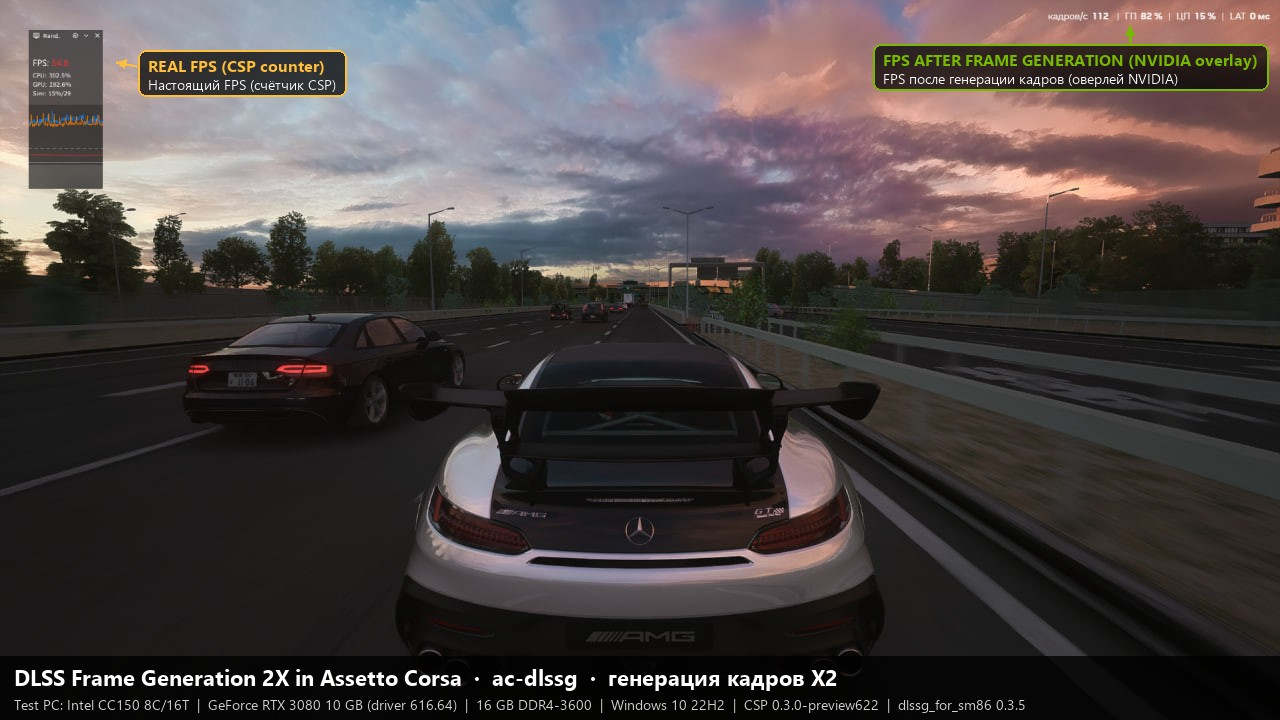
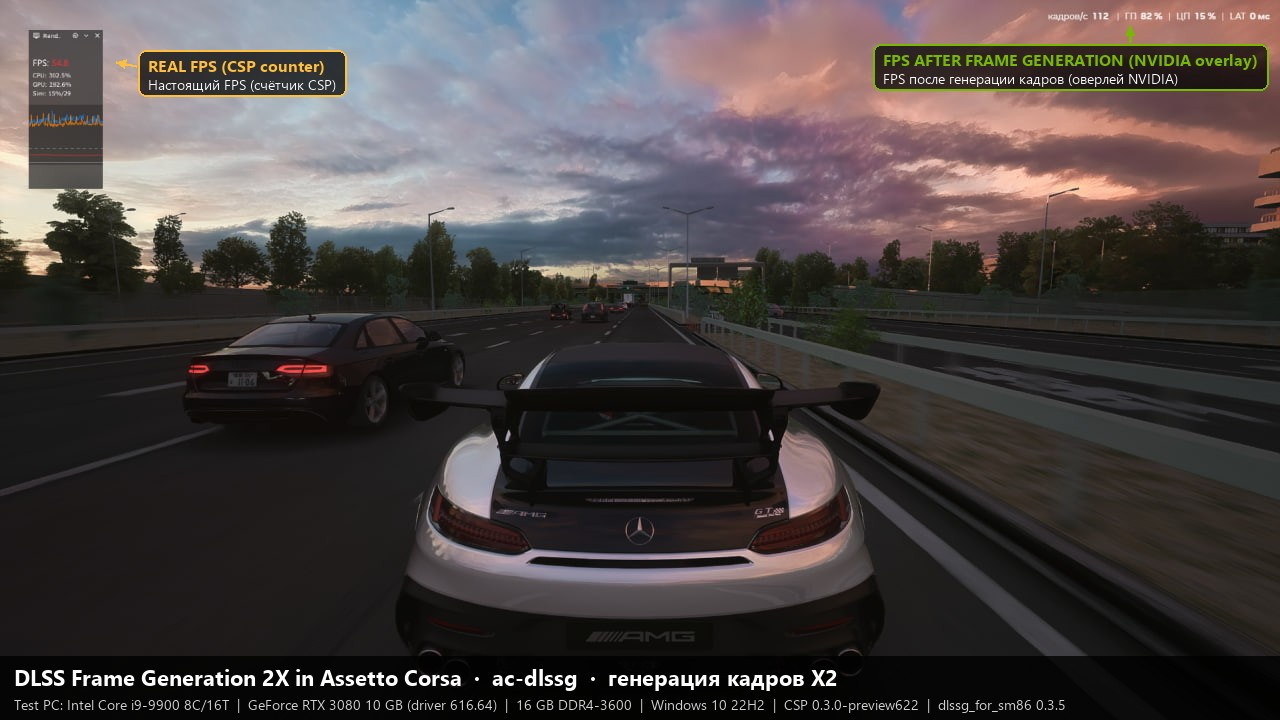
Name the test PC's CPU as i9-9900 in the README and screenshots

Changed region(s): [[0.0938, 0.9472, 0.8125, 1.0]]

diff --git a/README.md b/README.md
@@ -20,7 +20,7 @@ DLSS-G 2X in Assetto Corsa with CSP:
 - **Top left:** CSP's FPS counter. It shows the **real** frames the game renders.
 - **Top right:** the NVIDIA overlay. It shows the frames **on screen after frame generation**.
 
-Test PC: Intel CC150 (8 cores, 16 threads), GeForce RTX 3080 10 GB (driver 616.64), 16 GB DDR4-3600, Windows 10 22H2, CSP 0.3.0-preview622, dlssg_for_sm86 0.3.5.
+Test PC: Intel Core i9-9900 (8 cores, 16 threads), GeForce RTX 3080 10 GB (driver 616.64), 16 GB DDR4-3600, Windows 10 22H2, CSP 0.3.0-preview622, dlssg_for_sm86 0.3.5.
 
 ![DLSS-G 2X, cockpit view: 62 real fps, 124 fps on screen](docs/screenshots/fg2x-1.jpg)
 ![DLSS-G 2X, chase view: 57 real fps, 112 fps on screen](docs/screenshots/fg2x-2.jpg)
@@ -131,7 +131,7 @@ GPL-3.0. See [LICENSE](LICENSE).
 
 Генерация кадров NVIDIA DLSS Frame Generation (DLSS-G 2X) для **Assetto Corsa** с **Custom Shaders Patch**.
 
-**Статус: тестовая сборка, генерация кадров в игре работает.** На тестовом ПК FPS вырос вдвое, без гостинга и мыла. Скриншоты выше: слева вверху счётчик CSP, это **настоящие** кадры; справа вверху оверлей NVIDIA, это кадры **на экране после генерации**. Тестовый ПК: Intel CC150 (8 ядер, 16 потоков), RTX 3080 10 ГБ (драйвер 616.64), 16 ГБ DDR4-3600, Windows 10 22H2, CSP 0.3.0-preview622, dlssg_for_sm86 0.3.5.
+**Статус: тестовая сборка, генерация кадров в игре работает.** На тестовом ПК FPS вырос вдвое, без гостинга и мыла. Скриншоты выше: слева вверху счётчик CSP, это **настоящие** кадры; справа вверху оверлей NVIDIA, это кадры **на экране после генерации**. Тестовый ПК: Intel Core i9-9900 (8 ядер, 16 потоков), RTX 3080 10 ГБ (драйвер 616.64), 16 ГБ DDR4-3600, Windows 10 22H2, CSP 0.3.0-preview622, dlssg_for_sm86 0.3.5.
 
 ### Что нужно
 
